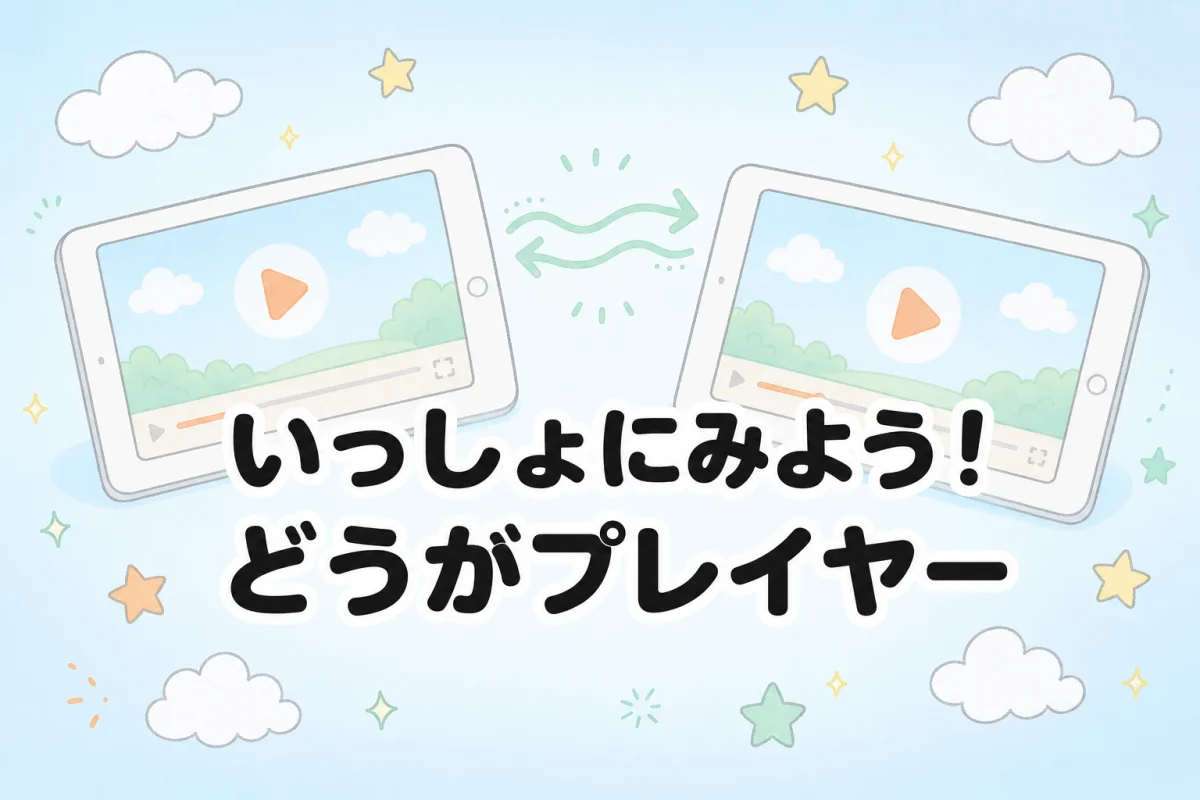
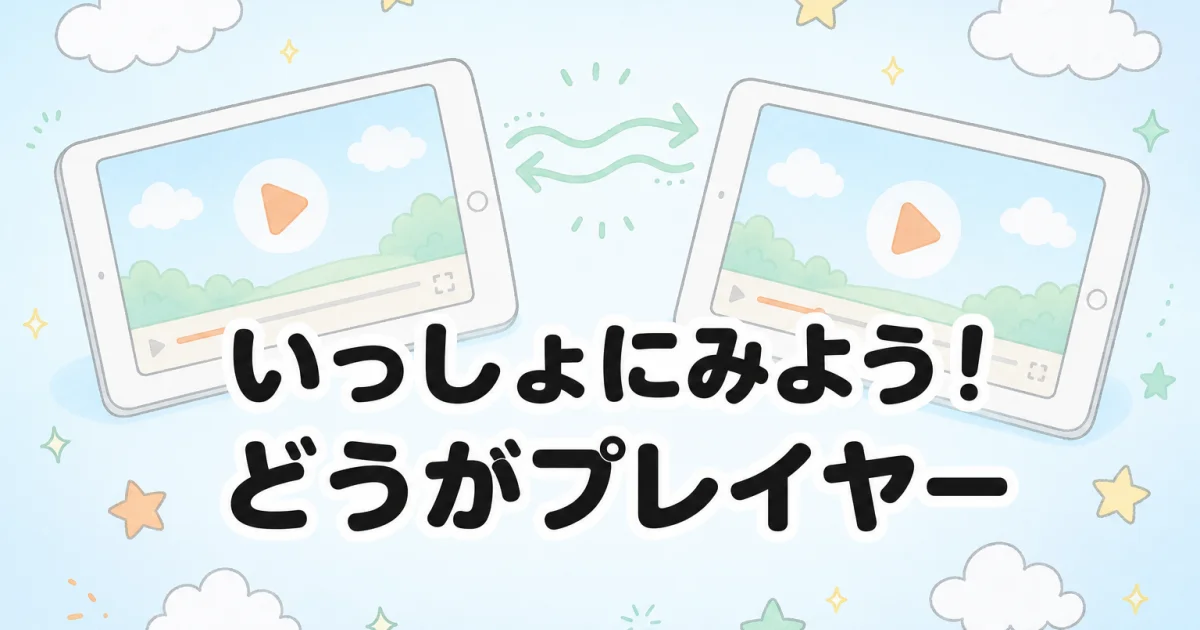
OGP画像をOGP標準1200x630にリサイズ
- og-image.webp を 1200x800 → 1200x630（1.91:1）に再生成
- og:image:height メタを 630 に更新

diff --git a/index.html b/index.html
@@ -18,7 +18,7 @@
   <meta property="og:image" content="https://youtube-sync-player.itorin-sensei.com/og-image.webp">
   <meta property="og:image:type" content="image/webp">
   <meta property="og:image:width" content="1200">
-  <meta property="og:image:height" content="800">
+  <meta property="og:image:height" content="630">
   <meta property="og:url" content="https://youtube-sync-player.itorin-sensei.com/">
   <meta property="og:site_name" content="いとりん先生のアプリひろば">
   <meta property="og:locale" content="ja_JP">
